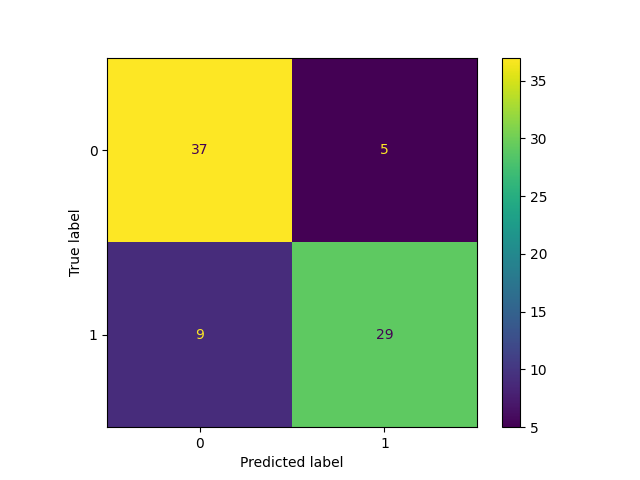
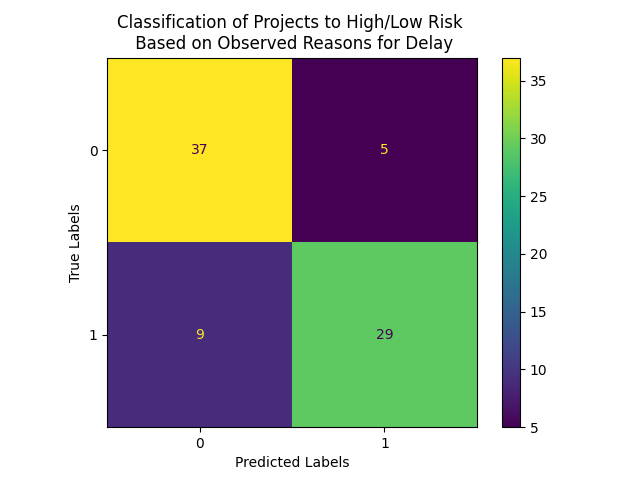
- Readme modified

Changed region(s): [[0.1875, 0.0312, 0.7188, 0.125], [0.375, 0.9375, 0.5625, 1.0], [0.0938, 0.4062, 0.125, 0.5938]]

diff --git a/Project_Delay_Classification/Delay_Classification_DT.py b/Project_Delay_Classification/Delay_Classification_DT.py
@@ -2,6 +2,7 @@
 # https://www.kaggle.com/code/roshanposu/a-simple-lstm-based-time-series-classifier/edit
 # https://towardsdatascience.com/building-rnn-lstm-and-gru-for-time-series-using-pytorch-a46e5b094e7b
 
+from cProfile import label
 import matplotlib.pyplot as plt
 import numpy as np
 import pandas as pd
@@ -52,7 +53,11 @@ def cal_accuracy(y_test, y_pred):
     print ("Accuracy : ", accuracy_score(y_test,y_pred)*100)
     print("Report : ", classification_report(y_test, y_pred))
     ConfusionMatrixDisplay.from_predictions(y_test,y_pred)
+    plt.title("Classification of Projects to High/Low Risk \n Based on Observed Reasons for Delay")
+    plt.xlabel("Predicted Labels")
+    plt.ylabel("True Labels")
     plt.show()
+
 # Use bagging % boosting --> After noon thursday
 # Pre-process the data --> Friday
     # Draw distribution of the data
@@ -76,12 +81,11 @@ def main():
             df["F27"][rw]=0
         else:
             df["F27"][rw]=1
-    df["F27"].plot.hist(bins=100, alpha=0.5)
-
-    X = df.values[:, 0:column-2]
-    Y = df.values[:,column-1]
+    #df["F27"].plot.hist(bins=100, alpha=0.5)
 
     # split dataset %70/%30 
+    X = df.values[:, 0:column-2]
+    Y = df.values[:,column-1]
     X_train, X_test, y_train, y_test = train_test_split( 
             X, Y, test_size = 0.3, random_state = 100)
 

diff --git a/Project_Delay_Classification/README.md b/Project_Delay_Classification/README.md
@@ -8,12 +8,18 @@ Decision tree was used to classify the projects into "high-risk", and "low-risk"
 Raw schdule data was provided by the company. 
 
 ## Data Preprocessing
-
+https://monkeylearn.com/blog/data-preprocessing/
+Data quality assurance, data cleaning, data transformaiton, and data reduction was performed. 
 
 ## Description of the Dataset
 The dataset inlcudes scheduling data for 265 projects. The data was devided into training/testing set by %70/%30 ratio.
 
 ## Results and Discussion
+Performance evaluation of the proposed method in the test dataset resulted %X precision, %X recall, F1-score of X, as visually depicted below. 
+
+
+
+
 ## Corelation Matrix for Delay Root Causes
 
 Figure below shows the corelation between the different features of the project, based on 256 projects. Here features F0 to F26 indicate the identified root causes of delay, while the saturated colors indicate higher levels are positive corelation between the features. For example there is a relatively significant positive corelation between F2 ( Change orders) and F4 (Supply chain).
